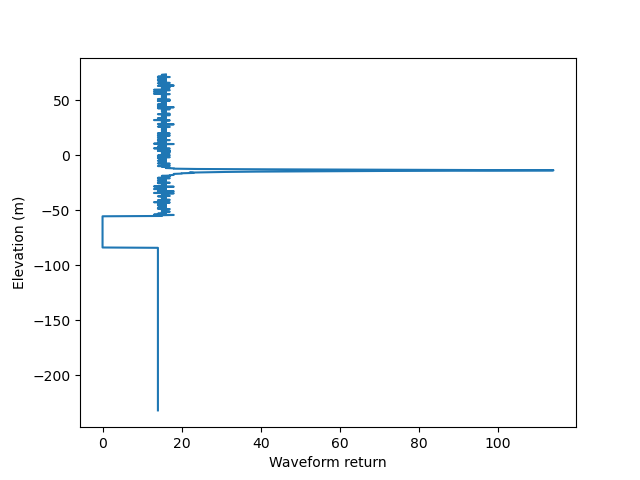
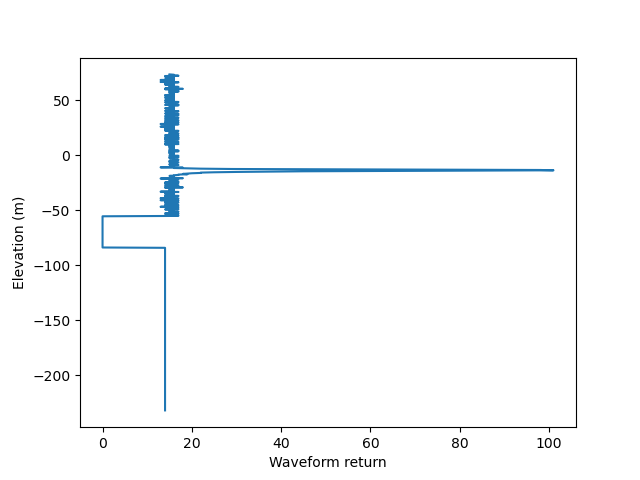
updated figures including flight-line DEMs for 2009; working tasks1,2a,2b; modified task2a (batch processing) to suit command line parser

diff --git a/methodsDEM.py b/methodsDEM.py
@@ -8,6 +8,7 @@ from osgeo import gdal
 import numpy as np
 import os
 import rasterio as rio
+from rasterio.plot import show
 from rasterio import features
 from rasterio.merge import merge
 from rasterio.enums import Resampling
@@ -15,9 +16,28 @@ from rasterio.mask import mask
 from shapely.geometry import mapping
 import geopandas as gpd
 from shapely.geometry import shape, box
+import matplotlib.pyplot as plt
 import subprocess
 
 
+# List of functions
+
+def convert_bytes(number):
+    '''Function to convert file size to known units'''
+    for x in ['bytes', 'KB', 'MB', 'GB']:
+        if number < 1024.0:
+            return "%3.1f %s" % (number, x)
+        number /= 1024.0
+    return
+
+###########################################
+
+def file_size(file):
+    '''Function to calculate filesize of file'''
+    if os.path.isfile(file):
+        file_info = os.stat(file)
+        return convert_bytes(file_info.st_size)
+    return
 
 ###########################################
 
@@ -38,12 +58,12 @@ def filter_subsets(dem_list, shapefile):
         # add to filtered list if data intersects with box
         if dem_geom.intersects(shapefile_geom):
             filtered_list.append(dem_file)
-    print(f'Subsets in range of glacier: {len(filtered_list)}')
+    print(f'DEM subsets in range of glacier: {len(filtered_list)}')
     return filtered_list
 
 ###########################################
 
-def batch_merge_subsets(filtered_list, output_dir, step_size):
+def merge_subsets(filtered_list, output_dir, step_size):
     '''Batch process to merge DEM subsets'''
     # systematically iterate through subsets
     merged_count = 0
@@ -58,32 +78,27 @@ def batch_merge_subsets(filtered_list, output_dir, step_size):
         # close virtual dataset
         vrt = None
         merged_count += 1
-    print(f'Successful merge from {len(filtered_list)} to {merged_count} subsets')
+    print(f'Successful merge from {len(filtered_list)} to {merged_count} DEM subsets')
 
+###########################################
 
-    # merge the newly merged subsets in range of glacier
-    #output = 'PIG_DEM.tif'
-    #final_vrt = gdal.BuildVRT(os.path.join(output_dir, 'PIG_DEM.vrt'), [f'merged_dem{i}.tif' for i in range(0, len(filtered_list), step_size)])
-    #gdal.Translate(os.path.join(output_dir, output), final_vrt, xRes = 30, yRes = -30)
-    #final_vrt = None
-    #print(f'SUCCESSFUL PINE ISLAND GLACIER DEM: {output_dir}{output}')
+def clip_geotiff(input_file, shape_file, output_file):
+    '''Clip DEM geotiff to study area'''
+    # read input raster and shapefile
+    glacier = gpd.read_file(shape_file)
+    dem = rio.open(input_file)
+    # align raster and shape geometry
+    glacier = glacier.to_crs(dem.crs)
+    geometry = glacier.geometry.values[0]
+    geoms = [geometry]
+    # clip dem to shapefile
+    dem_glacier, transform = mask(dataset = dem, shapes = geoms, crop = True)
+    metadata = dem.meta.copy()
+    metadata.update({'driver': 'GTiff', 'height': dem_glacier.shape[1], 'width': dem_glacier.shape[2], 'transform': transform})
+    # write the clipped DEM as geotiff
+    with rio.open(output_file, 'w', **metadata) as dst:
+        dst.write(dem_glacier)
+    dem.close()
+    print(f'------------SUCCESSFUL LVIS DEM OF PINE ISLAND GLACIER------------:\n {output_file}')
 
-def merge_geotiffs(input_files, output_file):
-    """
-    Merge multiple GeoTIFFs into a single GeoTIFF file.
-
-    Parameters:
-    - input_files: List of input GeoTIFF file paths to be merged.
-    - output_file: Output GeoTIFF file path.
-
-    Returns:
-    - None
-    """
-    # Open the first GeoTIFF to use its geospatial information
-    with gdal.Open(input_files[0]) as src_ds:
-        # Create an output GeoTIFF with the same geospatial information
-        gdal.Warp(output_file, src_ds, options=['COMPRESS=DEFLATE'])
-
-        # Loop through the remaining GeoTIFFs and add them to the output
-        for input_file in input_files[1:]:
-            gdal.Warp(output_file, input_file, options=['COMPRESS=DEFLATE'], destSRS=src_ds.GetProjection())
+###########################################

diff --git a/task2b.py b/task2b.py
@@ -10,49 +10,44 @@ from methodsDEM import *
 
 
 if __name__ == '__main__':
-    
-    # Identify DEM subsets and study area
+    start = time.process_time()
+
+    # Find DEM subsets and study area
     dem_list = glob.glob('/home/s1949330/Documents/MSc_OOSA/project_data/2009/*.tif')
     print(f'Number of DEM subsets: {len(dem_list)}')
-    glacier = '/home/s1949330/Documents/MSc_OOSA/project_data/pine_island/pine_island_glacier.shp'
 
     # Filter subsets within range of study area (to merge all 244 subsets at once, RAM = ~9GB)
+    glacier = '/home/s1949330/Documents/MSc_OOSA/project_data/pine_island/pine_island_glacier.shp'
     filtered_subsets = filter_subsets(dem_list, glacier)
 
-    # Merge filtered subsets 
+    # Merge filtered subsets in appropriate batches
     merged_output_dir = '/home/s1949330/Documents/MSc_OOSA/project_data/2009/filtered/'
-    batch_merge_subsets(filtered_subsets, merged_output_dir, step_size = 10)
+    merge_subsets(filtered_subsets, merged_output_dir, step_size = 10)
 
     # Combine merged subsets
     filtered_list = glob.glob('/home/s1949330/Documents/MSc_OOSA/project_data/2009/filtered/*.tif')
-    cmd = 'gdal_merge.py -ps 30 -30 -o /home/s1949330/Documents/MSc_OOSA/project_data/2009/filtered/combined/mergedDEM.tif -n -999'
-    subprocess.call(cmd.split() + filtered_list)
-    
-    
-    
+    output_dir = '/home/s1949330/Documents/MSc_OOSA/project_data/2009/filtered/combined/'
+    merge_subsets(filtered_list, output_dir, len(filtered_list))
+    os.rename(str(output_dir) + 'merged_subsets0.tif', str(output_dir) + 'LVIS_DEM_2009.tif')
 
+    # Crop combined DEM to study area polygon
+    pine_island = '/home/s1949330/Documents/MSc_OOSA/project_data/pine_island/pine_island_glacier.shp'
+    lvis_dem = str(output_dir) + 'LVIS_DEM_2009.tif'
+    pig_dem = str(output_dir) + 'PIG_DEM_2009.tif'
+    clip_geotiff(lvis_dem, pine_island, pig_dem)
 
+    # Visualise DEM of Pine Island Glacier, 2009
+    PIG_DEM_2009 = rio.open(str(output_dir) + 'PIG_DEM_2009.tif')
+    data = PIG_DEM_2009.read(1, masked = True)
+    plt.figure(figsize = (8, 8))
+    plt.imshow(data, cmap = 'magma', extent = PIG_DEM_2009.bounds, origin = 'upper')
+    cbar = plt.colorbar(shrink = 0.5)
+    cbar.set_label('Elevation (m)')
+    plt.title("LVIS DEMs for Pine Island Glacier, 2009")
+    plt.show()
+    PIG_DEM_2009.close()
 
-'''''''''
-    # Crop DEM to Pine Island Glacier
-    input_file = '/home/s1949330/Documents/MSc_OOSA/project_data/2009/LVIS_DEM_2009.tif'
-    shape_file = '/home/s1949330/Documents/MSc_OOSA/project_data/GLIMS_PIG_shapefile/glims_polygons.shp'
-    output_file = '/home/s1949330/Documents/MSc_OOSA/project_data/2009/PIG_DEM_2009.tif'
-
-    # Align input and shape geometry
-    glacier = gpd.read_file(shape_file)
-    dem = rio.open(input_file)
-    glacier.to_crs(dem.crs)
-    geometry = glacier.geometry.values[0]
-    geoms = [glacier(geometry)]
-
-    # Crop LVIS DEM to Pine Island Glacier
-    dem_glacier, transform = mask(dataset = dem, shapes = glacier, crop = True)
-    metadata = dem.meta.copy()
-    metadata.update({'driver': 'GTiff', 'height': glacier.shape[1], 'width': glacier.shape[2], 'transform': transform})
-
-    # Write the clipped DEM as geotiff
-    with rasterio.open(output_file, 'w', **metadata) as dst:
-        dst.write(dem_glacier)
-    dem.close()
-'''''''''
+    # Calculate CPU runtime and RAM usage
+    print(f"CPU runtime: {round((time.process_time() - start), 2)} seconds")
+    ram = psutil.Process().memory_info().rss
+    print(f"RAM usage: {convert_bytes(ram)}")

diff --git a/task2a.py b/task2a.py
@@ -1,19 +1,29 @@
 '''
-Task2a: Batch Process LVIS, Produce DEMs, 2009
+Task2a: Batch Process LVIS, Produce DEMs
 '''
 
 # Import objects and methods
 from readLVIS import *
 from processLVIS import *
 from plotLVIS import *
+from methodsDEM import *
 
 
-if __name__ == '__main__':   
+def main():
+    '''Main function to batch process LVIS and produce flight-path DEMs for a given year'''
     
+    # Define command line parser to use for multiple LVIS years
+    parser = argparse.ArgumentParser(description = "Process LVIS files from a specified directory.")
+    parser.add_argument("year", help = "Year of LVIS data (e.g., 2009 or 2015)")
+    args = parser.parse_args()
+    
+    start = time.process_time()
+
     # Identify directory containing LVIS files
-    dir = '/geos/netdata/oosa/assignment/lvis/2009/'
+    dir = f'/geos/netdata/oosa/assignment/lvis/{args.year}/'
     lvis_files = [f for f in os.listdir(dir) if f.endswith('.h5')]
-    
+    print('Number of LVIS files: ', len(lvis_files))
+
     # Isolate one LVIS file
     for file in lvis_files:
         lvis_file = os.path.join(dir, file)
@@ -36,11 +46,23 @@ if __name__ == '__main__':
                 # Calculate footprint ground estimates
                 LVIS_subset.set_elevations()
                 LVIS_subset.estimate_ground()
-                print(f'Subset ground estimates: {LVIS_subset.zG[:5]}')
+                print(f'DEM subset ground estimates: {LVIS_subset.zG[:5]}')
 
                 # Convert footprints to DEM
                 LVIS_subset.reproject_coords(3031)
-                outName = f'/home/s1949330/Documents/MSc_OOSA/project_data/2009/DEM_subset.x.{x0}.y.{y0}.tif'
+                outName = f'/home/s1949330/Documents/MSc_OOSA/project_data/{args.year}/DEM_subset.x.{x0}.y.{y0}.tif'
                 LVIS_subset.write_tiff(LVIS_subset.zG, LVIS_subset.x, LVIS_subset.y, 30, filename = outName, epsg = 3031)
         
         print(f'-----------------LVIS FILE DEM COMPLETE-----------------\n')
+
+    # Calculate CPU runtime and RAM usage
+    print(f"CPU runtime: {round(((time.process_time() - start) * 60), 3)} minutes")
+    ram = psutil.Process().memory_info().rss
+    print(f"RAM usage: {convert_bytes(ram)}")
+
+
+if __name__ == '__main__':   
+    main()
+
+    # python task2a.py 2009 
+    #                  2015

diff --git a/task1.py b/task1.py
@@ -6,10 +6,12 @@ Task1: Read LVIS file, Plot Waveform
 from readLVIS import *
 from processLVIS import *
 from plotLVIS import *
+from methodsDEM import *
 
 
 if __name__ == '__main__':
-    
+    start = time.process_time()
+
     # Initialise class
     lvis_file = '/geos/netdata/oosa/assignment/lvis/2009/ILVIS1B_AQ2009_1020_R1408_049700.h5'
     LVIS = plotLVIS(lvis_file, onlyBounds = True)
@@ -27,12 +29,15 @@ if __name__ == '__main__':
 
     # Save subset coordinates to visualise
     df = pd.DataFrame({'x': LVIS_subset.x, 'y': LVIS_subset.y})
-    df.to_csv('lvis_subset.csv', index = False)
+    df.to_csv('/home/s1949330/Documents/MSc_OOSA/project_data/task1_subset.csv', index = False)
     print(df.head())
     
     # Plot one waveform from subset
-    waveform = LVIS_subset.one_waveform(0)
+    waveform = LVIS_subset.one_waveform(100)
     LVIS_subset.plot_wave(waveform[1], waveform[0], outName = 'waveform.png')
-    print('Waveform:', LVIS_subset.x[0], LVIS_subset.y[0], 'EPSG:3031')
+    print('Waveform:', LVIS_subset.x[0], LVIS_subset.y[0], '(EPSG:3031)')
 
-
+    # Calculate CPU runtime and RAM usage
+    print(f"CPU runtime: {round((time.process_time() - start), 2)} seconds")
+    ram = psutil.Process().memory_info().rss
+    print(f"RAM usage: {convert_bytes(ram)}")

diff --git a/plotLVIS.py b/plotLVIS.py
@@ -14,7 +14,7 @@ from rasterio.transform import from_origin
 from rasterio.enums import Resampling
 from rasterio.merge import merge
 from rasterio.mask import mask
-from shapely.geometry import mapping
+from shapely.geometry import mapping, Point
 import geopandas as gpd
 from processLVIS import processLVIS
 
@@ -22,7 +22,7 @@ from processLVIS import processLVIS
 # Define class
 class plotLVIS(processLVIS):
   '''Class to visualise LVIS data'''
-  
+
   ###########################################
 
   def reproject_coords(self, outEPSG):

diff --git a/processLVIS.py b/processLVIS.py
@@ -6,6 +6,7 @@ Class to Process LVIS Data
 import numpy as np
 from scipy.ndimage.filters import gaussian_filter1d
 from tqdm import tqdm
+import argparse
 from readLVIS import readLVIS
 
 

diff --git a/readLVIS.py b/readLVIS.py
@@ -8,6 +8,8 @@ import h5py as h5
 from pyproj import Proj, transform
 from pprint import pprint
 import pandas as pd
+import time
+import psutil
 
 
 # Define class
